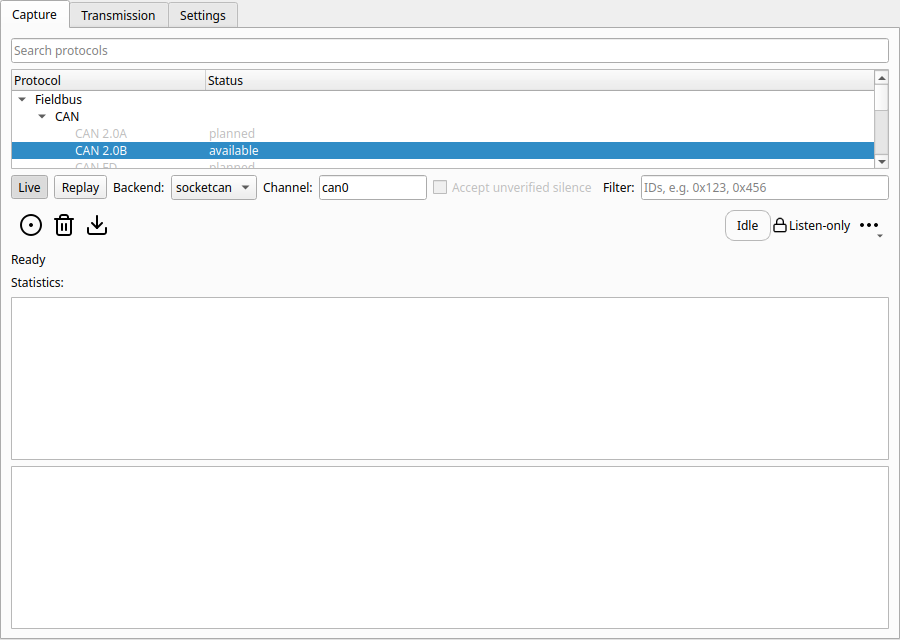
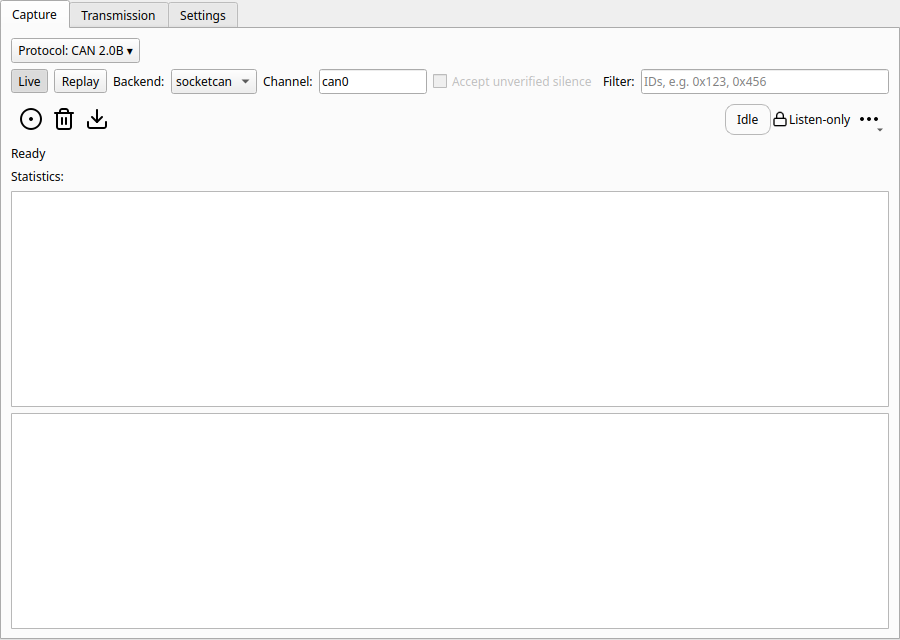
feat(ui): compact protocol picker with popup catalogue
Critical review of #72: the permanent tree becomes a button that opens the
searchable catalogue (PulseView / PCAN-View style), giving the frame list its
space back. Selection happens on click or Enter only so the keyboard can
browse. Benchmark extended with SavvyCAN, PCAN-View and Saleae Logic 2.

Refs #72

Changed region(s): [[0.0, 0.0625, 0.9956, 0.4688], [0.4667, 0.2812, 0.8711, 0.3125], [0.8089, 0.3438, 0.9956, 0.375]]

diff --git a/src/busscope/protocol_selector.py b/src/busscope/protocol_selector.py
@@ -1,9 +1,18 @@
-"""Searchable family / sub-family / protocol tree for the capture tab."""
+"""Compact protocol picker: a button that opens a searchable family / sub-family tree."""
 
 from __future__ import annotations
 
 from PySide6.QtCore import Qt, Signal
-from PySide6.QtWidgets import QLineEdit, QTreeWidget, QTreeWidgetItem, QVBoxLayout, QWidget
+from PySide6.QtWidgets import (
+    QFrame,
+    QHBoxLayout,
+    QLineEdit,
+    QPushButton,
+    QTreeWidget,
+    QTreeWidgetItem,
+    QVBoxLayout,
+    QWidget,
+)
 
 from busscope.protocol_catalogue import Availability, Protocol, ProtocolCatalogue
 
@@ -14,6 +23,8 @@ class ProtocolSelector(QWidget):
     """Let the operator find and pick an available protocol; planned ones stay disabled."""
 
     protocol_changed = Signal(object)
+    _POPUP_WIDTH = 420
+    _POPUP_HEIGHT = 320
 
     def __init__(self, catalogue: ProtocolCatalogue, selected_key: str) -> None:
         """Build the tree from ``catalogue`` and select ``selected_key``."""
@@ -31,17 +42,43 @@ class ProtocolSelector(QWidget):
         self._items: dict[str, QTreeWidgetItem] = {}
         self._groups: list[tuple[QTreeWidgetItem, list[QTreeWidgetItem]]] = []
         self._populate()
-        layout = QVBoxLayout(self)
+        # The tree lives in a popup (PulseView / PCAN-View style) so the frame list keeps
+        # the vertical space; the button shows the current choice.
+        self.button = QPushButton()
+        self.button.setAccessibleName("Protocol")
+        self.button.setToolTip("Choose the protocol to capture")
+        self.popup = QFrame(self, Qt.WindowType.Popup)
+        self.popup.setFrameShape(QFrame.Shape.StyledPanel)
+        popup_layout = QVBoxLayout(self.popup)
+        popup_layout.addWidget(self.search_input)
+        popup_layout.addWidget(self.tree)
+        self.popup.resize(self._POPUP_WIDTH, self._POPUP_HEIGHT)
+        layout = QHBoxLayout(self)
         layout.setContentsMargins(0, 0, 0, 0)
-        layout.addWidget(self.search_input)
-        layout.addWidget(self.tree)
+        layout.addWidget(self.button)
+        layout.addStretch()
+        self._update_button()
+        self.button.clicked.connect(self.open_popup)
         self.search_input.textChanged.connect(self.filter)
-        self.tree.currentItemChanged.connect(self._on_current_changed)
+        # Choose on click or Enter only: arrow keys and live search just move the cursor.
+        self.tree.itemClicked.connect(self.choose)
+        self.tree.itemActivated.connect(self.choose)
 
     @property
     def selected(self) -> Protocol:
         """Return the protocol currently chosen for capture."""
         return self._selected
+
+    def open_popup(self) -> None:
+        """Show the searchable catalogue under the button, search field focused."""
+        self.popup.move(self.button.mapToGlobal(self.button.rect().bottomLeft()))
+        self.search_input.clear()
+        self.tree.setCurrentItem(self._items[self._selected.key])
+        self.popup.show()
+        self.search_input.setFocus()
+
+    def _update_button(self) -> None:
+        self.button.setText(f"Protocol: {self._selected.name} \u25be")
 
     def filter(self, text: str) -> None:
         """Hide protocols not matching ``text`` and groups left empty."""
@@ -86,7 +123,11 @@ class ProtocolSelector(QWidget):
             item.setDisabled(True)
         return item
 
-    def _on_current_changed(self, current: QTreeWidgetItem | None) -> None:
+    def choose(self, current: QTreeWidgetItem | None, _column: int = 0) -> None:
+        """Select the protocol shown by ``current`` and close the popup.
+
+        Group rows and planned protocols are ignored and leave the popup open.
+        """
         if current is None or current.isDisabled():
             return
         key = current.data(0, _KEY_ROLE)
@@ -95,4 +136,6 @@ class ProtocolSelector(QWidget):
         protocol = self._catalogue.get(key)
         if protocol != self._selected:
             self._selected = protocol
+            self._update_button()
             self.protocol_changed.emit(protocol)
+        self.popup.hide()

diff --git a/tests/test_protocol_selector.py b/tests/test_protocol_selector.py
@@ -48,8 +48,7 @@ def test_selecting_available_protocol_emits_change(qt_application: QApplication)
     received: list[Protocol] = []
     selector.protocol_changed.connect(received.append)
 
-    serial = selector.item("rtu")
-    selector.tree.setCurrentItem(serial)
+    selector.choose(selector.item("rtu"))
 
     assert received == [_RTU]
     assert selector.selected is _RTU
@@ -69,9 +68,9 @@ def test_group_and_planned_items_do_not_change_selection(qt_application: QApplic
     received: list[Protocol] = []
     selector.protocol_changed.connect(received.append)
 
-    selector.tree.setCurrentItem(_parent(_parent(selector.item("rtu"))))  # family row
-    selector._on_current_changed(selector.item("j1939"))
-    selector._on_current_changed(None)
+    selector.choose(_parent(_parent(selector.item("rtu"))))  # family row
+    selector.choose(selector.item("j1939"))
+    selector.choose(None)
 
     assert received == []
     assert selector.selected is _CAN
@@ -97,3 +96,33 @@ def test_selector_refuses_a_planned_protocol_as_initial_choice(
 ) -> None:
     with pytest.raises(ValueError, match="cannot be captured"):
         ProtocolSelector(_CATALOGUE, "j1939")
+
+
+def test_button_names_selection_and_popup_closes_after_pick(
+    qt_application: QApplication,
+) -> None:
+    selector = ProtocolSelector(_CATALOGUE, "can")
+    assert selector.button.text() == "Protocol: CAN \u25be"
+
+    selector.button.click()
+    assert selector.popup.isVisible()
+    selector.choose(selector.item("rtu"))
+
+    assert selector.popup.isHidden()
+    assert selector.button.text() == "Protocol: Modbus RTU \u25be"
+
+
+def test_browsing_or_picking_planned_keeps_popup_open(qt_application: QApplication) -> None:
+    selector = ProtocolSelector(_CATALOGUE, "can")
+    selector.search_input.setText("modbus")
+    selector.open_popup()
+
+    assert selector.search_input.text() == ""
+    assert selector.tree.currentItem() is selector.item("can")
+    selector.tree.setCurrentItem(selector.item("rtu"))  # arrow-key style move
+    selector.choose(selector.item("j1939"))
+
+    assert selector.popup.isVisible()
+    assert selector.selected is _CAN
+    selector.choose(selector.item("can"))  # re-picking current closes too
+    assert selector.popup.isHidden()

diff --git a/src/busscope/ui.py b/src/busscope/ui.py
@@ -82,7 +82,6 @@ class CaptureWindow(QMainWindow):
 
     _MAX_FRAMES_PER_TICK = 100
     _MAX_DISPLAYED_FRAMES = 10_000
-    _PROTOCOL_SELECTOR_MAX_HEIGHT = 160
 
     def __init__(
         self,
@@ -204,7 +203,6 @@ class CaptureWindow(QMainWindow):
         can_filter_layout.addWidget(self.filter_input)
         # Source and protocol come first; transport-specific fields follow the choice.
         self.protocol_selector = ProtocolSelector(DEFAULT_CATALOGUE, DEFAULT_PROTOCOL_KEY)
-        self.protocol_selector.setMaximumHeight(self._PROTOCOL_SELECTOR_MAX_HEIGHT)
         controls = QHBoxLayout()
         controls.addWidget(self.live_mode_button)
         controls.addWidget(self.replay_mode_button)

diff --git a/docs/architecture/diagrams/protocol-catalogue/03-wireframe.md b/docs/architecture/diagrams/protocol-catalogue/03-wireframe.md
@@ -3,15 +3,15 @@
 ```text
 ┌ Capture ───────────────────────────────────────────────────────────────┐
 │ [toolbar: ▶ ■ ❄ 💾 …]                                                  │
-│ Protocol  [🔍 search…            ]                                     │
-│  ▾ Fieldbus                                                            │
-│     ▾ CAN                                                              │
-│        ● CAN 2.0B (extended)          available                        │
-│        ○ J1939                        planned   (on CAN 2.0B)          │
-│  ▸ Serial / industrial                                                 │
-│  ▸ EV charging                                                         │
-│  ▸ Generic logic tap                                                   │
-│ ─ Selected: CAN 2.0B — Extended 29-bit identifiers, 125 kbit/s…        │
+│ [Protocol: CAN 2.0B ▾]   ← click opens the popup below                 │
+│   ┌ popup ─────────────────────────────┐                               │
+│   │ [🔍 search…            ]           │                               │
+│   │ ▾ Fieldbus                         │                               │
+│   │   ▾ CAN                            │                               │
+│   │      ● CAN 2.0B        available   │                               │
+│   │      ○ J1939           planned     │                               │
+│   │ ▸ Serial / industrial  …           │                               │
+│   └────────────────────────────────────┘                               │
 │ ┌ CAN settings (shown only for CAN transport) ───────────────────────┐ │
 │ │ Backend [socketcan▾]  Channel [can0]  ID filter [        ]          │ │
 │ └────────────────────────────────────────────────────────────────────┘ │
@@ -20,6 +20,6 @@
 └────────────────────────────────────────────────────────────────────────┘
 ```
 
-Behaviour: tree filters live on search; planned protocols are disabled (tooltip = status);
+Behaviour: the popup closes on click or Enter on an available protocol (arrow keys only browse); the tree filters live on search; planned protocols are disabled (tooltip = status);
 the settings group swaps by `Protocol.transport` (only the CAN group exists in this PR; other
 groups are follow-up issues).

diff --git a/docs/architecture/benchmarks/protocol-ui-benchmark.md b/docs/architecture/benchmarks/protocol-ui-benchmark.md
@@ -46,12 +46,28 @@ tools and are **[est.]** until we have the actual binary.
 **Borrow:** saved connection profiles per transport; tabular view of decoded values.
 **Avoid:** anything that polls or writes — BusScope is listen-only (ADR-0002).
 
+## CAN-specific tools (added after the #72 critical review)
+
+| Tool | Observation | Level |
+|---|---|---|
+| SavvyCAN | *Connection window* lists devices per driver; each bus enabled with its own bitrate (multi-bus). Main view toggles: auto-scroll, **overwrite mode** (one line per ID, latest frame), interpret frames (DBC), frame filtering by ID. | verified ([CSS Electronics guide](https://canlogger.csselectronics.com/canmod-intro/software-tools/savvycan), [man page](https://dyn.manpages.debian.org/unstable/savvycan/SavvyCAN.1)) |
+| PCAN-View | **Connect dialog** = interface + bitrate + **listen-only checkbox** in one place; sortable receive list, hex/decimal IDs. | verified ([PEAK product page](https://www.peak-system.com/products/software/analysis-software/pcan-view/?L=1)) |
+| Saleae Logic 2 | Analyzers added from a "+" in a side panel; one **data table** of all decoded analyzers, searchable, with per-analyzer exclusion. | data table verified ([Saleae guide](https://support.saleae.com/user-guide/using-logic/data-table-and-terminal)); "+" flow est. |
+
+**Borrow:** compact source + protocol picker that opens on demand (PCAN-View connect, PulseView
+decoder popup) instead of a permanent tree; overwrite mode per ID (SavvyCAN) as a follow-up;
+one searchable decoded-data table across protocols (Saleae).
+**Avoid:** transmit lists and periodic sending (PCAN-View) — out of scope, listen-only.
+
+Screenshots: not embedded (third-party copyright); see the linked official pages.
+
 ## Synthesis for BusScope
 
 1. **Source → protocol → transport settings**, in that order (wireframe in
    `diagrams/protocol-catalogue/03-wireframe.md`).
 2. **Grouped + searchable catalogue** (families → sub-families → protocols), PulseView search
-   on top of a Wireshark-like hierarchy.
+   on top of a Wireshark-like hierarchy, opened from a **compact picker button** so the frame
+   list keeps the space.
 3. Transport-specific fields (bitrate, CAN-ID filter, baud/parity…) appear **only** for the
    selected transport.
 4. Every protocol carries an availability status (*available* / *planned*) so the catalogue
